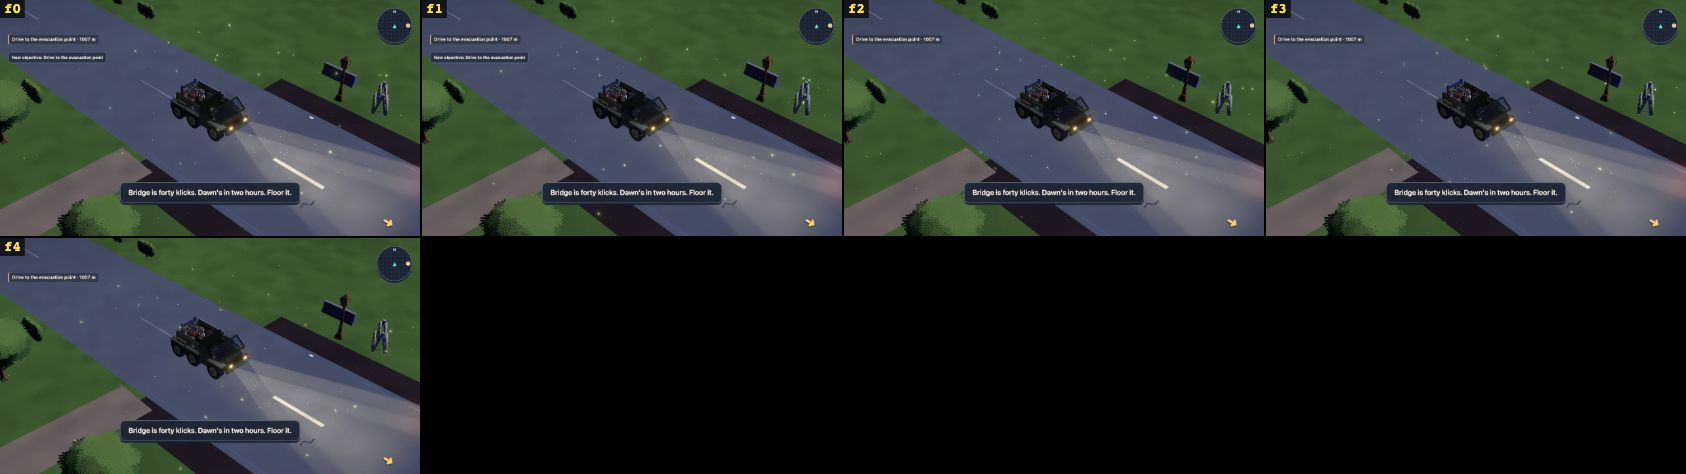
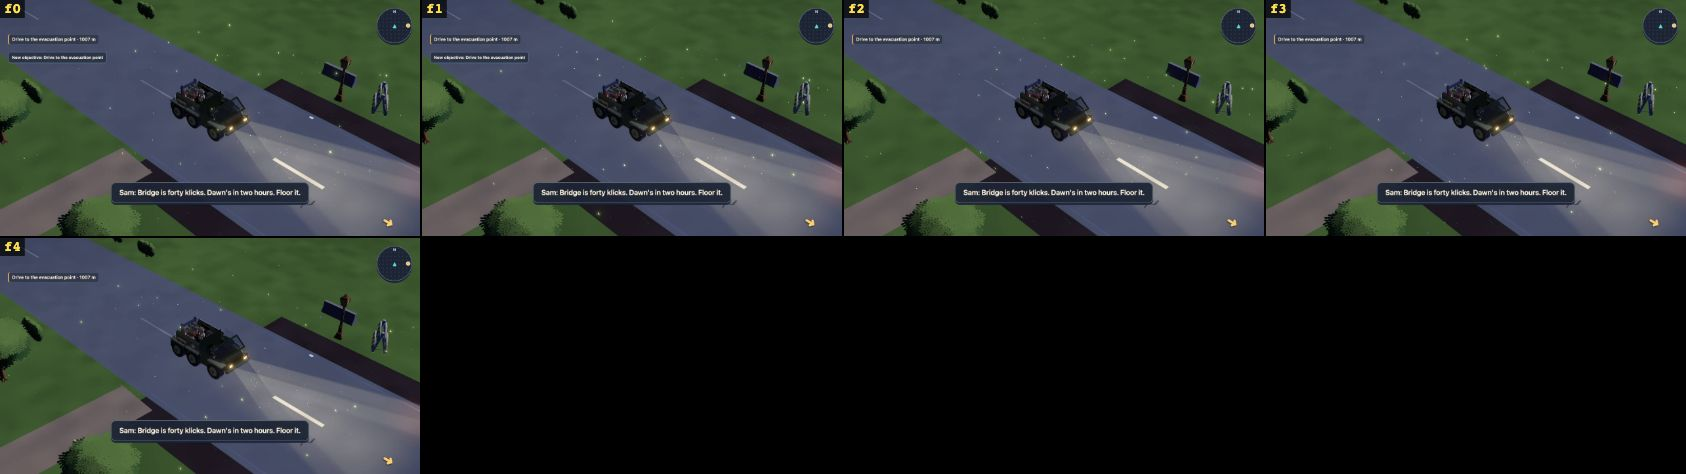
Identify L9 in-person speakers in captions

diff --git a/src/ui/MissionUI.ts b/src/ui/MissionUI.ts
@@ -13,6 +13,17 @@ import { attribute, setHidden, style } from './dom';
 import { nextLevelAfter } from '../sim/progression/Campaign';
 import { checkpointName } from '../data/checkpointNames';
 
+/** L9 subtitles identify passengers even when the authored line omits their name. */
+function captionText(world: SimWorld, id: string, text: string): string {
+  if (world.scenario !== 'L9') return text;
+  const driving = world.missions?.l9?.driving.state;
+  const samName = world.entities.get(driving?.samId ?? 0)?.civilian?.survivor?.key === 'reyes' ? 'Private Reyes' : 'Sam';
+  if (id === 'L9.mega-drive') return text.replace(/^Sam:/, `${samName}:`);
+  const name = ['L9.briefing', 'L9.stall.sam', 'L9.sam-stays'].includes(id) ? samName
+    : id === 'L9.clingers' ? 'Mia' : ['L9.bus.dale', 'L9.bus.dale-beat'].includes(id) ? 'Dale' : id === 'L9.okafor' ? 'Mr. Okafor' : undefined;
+  return name ? `${name}: ${text}` : text;
+}
+
 /** Mission-only UI; progression choices and the full combat HUD remain E13/E14 consumers. */
 export class MissionUI {
   readonly root = document.createElement('div');
@@ -85,7 +96,7 @@ export class MissionUI {
     // L4's short tactical cuts keep the full battlefield visible (Q-282).
     this.root.classList.toggle('is-full-frame',!!cinematic&&mission.def.l4===true);
     setHidden(this.subtitle,!cinematic&&(!state.subtitle||!playing));
-    this.text(this.subtitle,cinematic?.caption??state.subtitle?.text??'');
+    this.text(this.subtitle,cinematic?.caption??(state.subtitle ? captionText(this.world, state.subtitle.id, state.subtitle.text) : ''));
     attribute(this.subtitle,'data-line-id',state.subtitle?.id??'');
     setHidden(this.panel,playing||!!cinematic||!!mission.def.l9&&state.phase==='progression');
     if (this.panel.hidden && this.panel.contains(document.activeElement)) (document.activeElement as HTMLElement)?.blur();

diff --git a/docs/reports/s182-talkers/README.md b/docs/reports/s182-talkers/README.md
@@ -14,7 +14,7 @@ The full-resolution HIGH frame at six seconds, regenerated with `tools/qa/s182-t
 
 [L5 Rosa HIGH](l5-rosa.jpg) injects the search phase and survivor discovery at the pharmacy. The subtitle appears, but infected crowd the rescue point and Rosa cannot be distinguished confidently in the sheet. A render probe confirms her actor is drawn while in the `flee` state, using locomotion clips during the line. An existing gesture is now layered on unarmed moving speakers; the crowded recapture is still not a gesture pass, and ordinary rescue play needs review.
 
-[L9 opening HIGH](l9-opening.jpg) shows the APC's existing seated-crew cutaway during Sam's opening subtitle. Several passengers are visible, but Sam cannot be identified confidently and his gaze and gesture are not readable; the in-frame speaker requirement remains unverified. The roof is restored after the line.
+[L9 opening HIGH](l9-opening.jpg) shows the APC's existing seated-crew cutaway during Sam's opening subtitle, now labelled with his name (or Reyes for the fallback). Several passengers are visible, but Sam cannot be identified confidently and his gaze and gesture are not readable; the in-frame speaker requirement remains unverified. The roof is restored after the line.
 
 An earlier experimental walk from off-screen left the guard entering at the edge after the subtitle; it was discarded. The gate capture fixture records presentation positions without changing the simulation.
 
